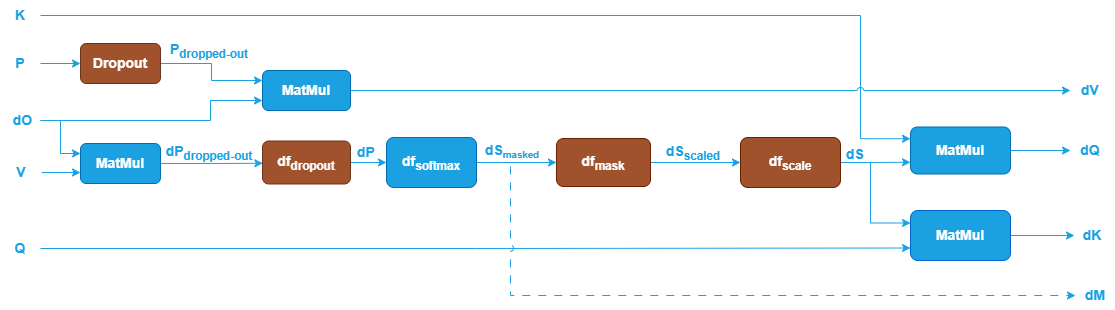
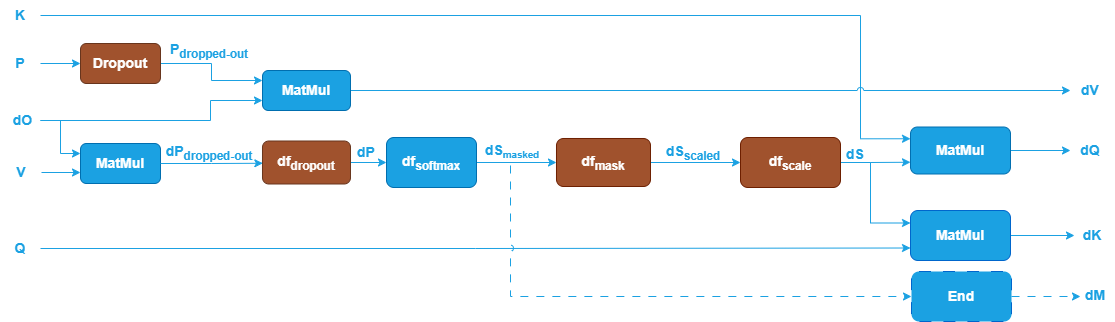
update the intermediate output tensor

diff --git a/rfcs/20250428-graph-api-sdpa-training/README.md b/rfcs/20250428-graph-api-sdpa-training/README.md
@@ -150,6 +150,9 @@ is computed as:
 > dM = dS_{masked} \in \mathbb{R}^{B \times H_{q} \times S_{q} \times S_{kv}}
 > $$
 
+Note $dS_{masked}$ is an intermediate tensor, if we want to define it as an output
+tensor for the whole graph ($dM$), we need to explicitly mark it with an `End` operation.
+
 ## Support in Frameworks and Libraries
 
 ### cuDNN
